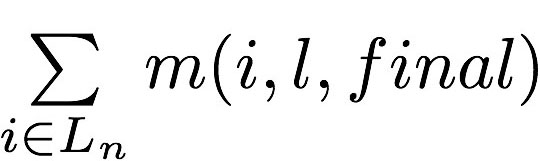
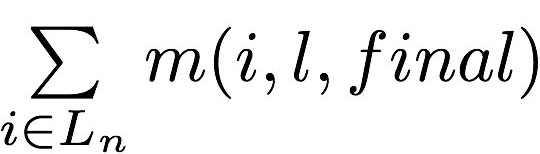
testing img size

diff --git a/CanonicalDescription/README.md b/CanonicalDescription/README.md
@@ -79,7 +79,7 @@ Mathematical operation for comparisons:
   * provide “importance” weighting for each isotope (default = 1)
     * prior work: list A from thesis B
     * perhaps different weighting vectors for different metrics
-      * reactivity (<img src=".readme/reactivity.jpg" align="middle" height="15"> vs. full sensitivity analysis a la Tsunami [\[2\]](#r))
+      * reactivity (<img src=".readme/reactivity.jpg" align="middle" height="20"> vs. full sensitivity analysis a la Tsunami [\[2\]](#r))
       * decay heat
       * radiotoxicity
       * information provided to end metric
